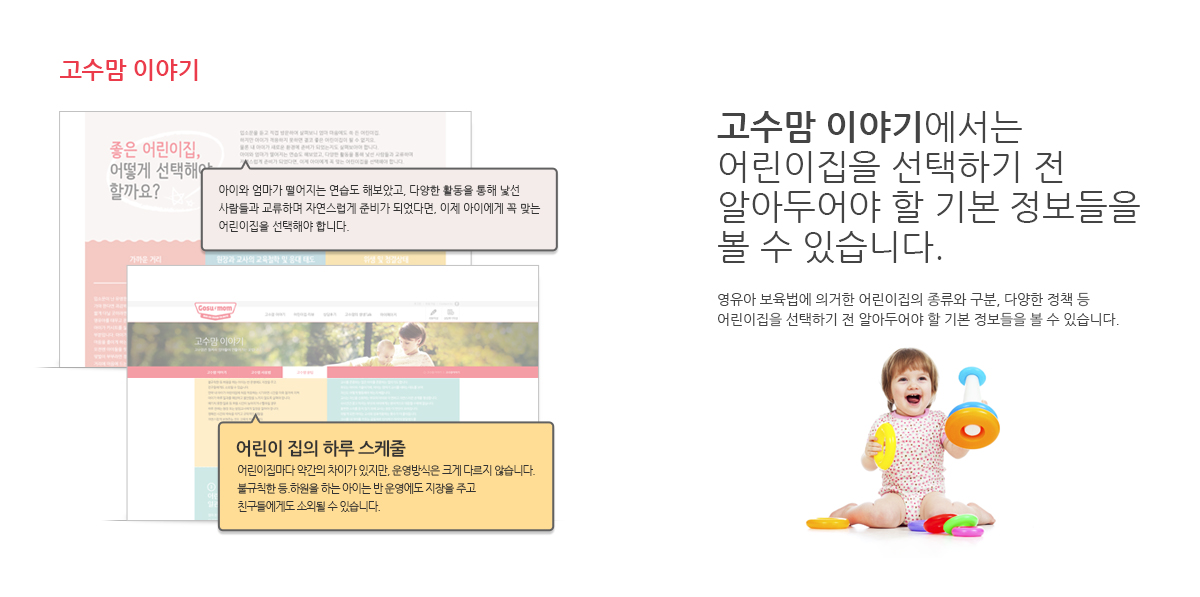
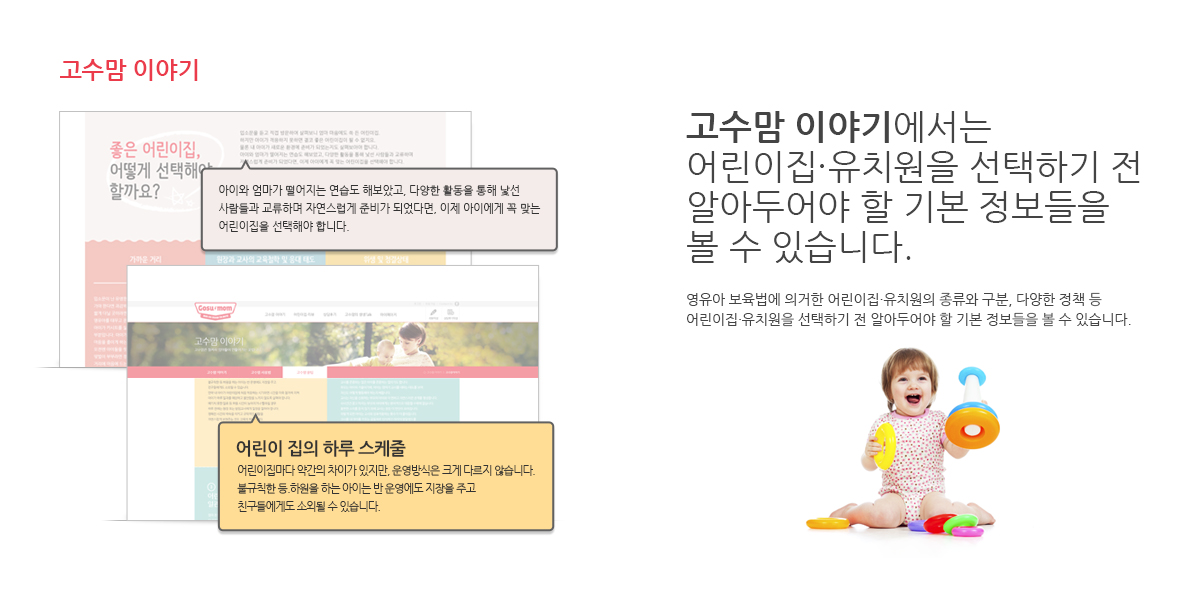
어린이집 문구 이미지 변경
- 고수맘 사용법 이미지
- 회원가입 이미지
-로그인 이미지

Changed region(s): [[0.555, 0.1809, 0.9558, 0.4523], [0.555, 0.4824, 0.9558, 0.5427]]

diff --git a/momHTML2/_index/index2.html b/momHTML2/_index/index2.html
@@ -37,8 +37,8 @@
 			<!-- main -->
 			<h3>2차 메인</h3>
 			<ul>
-				<li class="ing"><span>2015-04-28</span><a href="/momHTML2/application/HTML/intro/default.html"><strong>default.html</strong>회원가입</a></li>
-				<li class="ing"><span>2015-04-29</span><a href="/momHTML2/application/HTML/intro/login.html"><strong>login.html</strong>로그인</a></li>
+				<li class="update"><span>2015-06-16</span><a href="/momHTML2/application/HTML/intro/default.html"><strong>default.html</strong>회원가입</a><em><ins>어린이집 문구 이미지 변경</ins></em></li>
+				<li class="update"><span>2015-06-16</span><a href="/momHTML2/application/HTML/intro/login.html"><strong>login.html</strong>로그인</a><em><ins>어린이집 문구 이미지 변경</ins></em></li>
 				<li class="ing"><span>2015-05-15</span><a href="/momHTML2/application/HTML/intro/ing.html"><strong>ing.html</strong>로딩중</a></li>
 				<li class="update"><span>2015-06-16</span><a href="/momHTML2/application/HTML/main/default.html"><strong>default.html</strong>메인</a> 
 					<em>
@@ -50,7 +50,8 @@
 						<del>오픈 팝업</del>,
 						<ins>검색영역 탭 레이아웃</ins>,
 						<ins>텍스트 수정</ins>,
-						<ins>검색영역 select 추가</ins>
+						<ins>검색영역 select 추가</ins>,
+						<ins>중간배너이미지 변경</ins>
 					</em>
 				</li>
 				<li class="del"><span>2015-04-23</span><a href="/momHTML2/application/HTML/main/default2.html"><strong>default2.html</strong>메인</a></li>
@@ -130,7 +131,7 @@
 						<li class="ing"><span>2015-05-14</span><a href="/momHTML2/application/HTML/story/tip6.html"><strong>tip6.html</strong>어린이집 보육 교직원</a><em></em></li>
 					</ul>
 				</li>
-				<li class="ing"><span>2015-05-12</span><a href="/momHTML2/application/HTML/story/using.html"><strong>using.html</strong>고수맘 사용법</a><em></em></li>
+				<li class="update"><span>2015-06-16</span><a href="/momHTML2/application/HTML/story/using.html"><strong>using.html</strong>고수맘 사용법</a><em><ins>어린이집 문구 이미지 변경</ins></em></li>
 			</ul>
 
 			<h3>2차 Etc</h3>

diff --git a/momHTML2/application/HTML/intro/default.html b/momHTML2/application/HTML/intro/default.html
@@ -95,7 +95,7 @@
 					<fieldset>
 						<legend>회원가입</legend>
 						<h4>
-							<span>익명기반 솔직담백 어린이집 리뷰</span><br>
+							<span>익명기반 솔직담백 어린이집&middot;유치원 리뷰</span><br>
 							엄마들의 작은 공유가 세상을 바꿉니다.
 						</h4>
 						<div class="join_sns">
